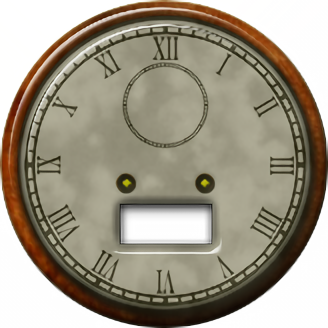
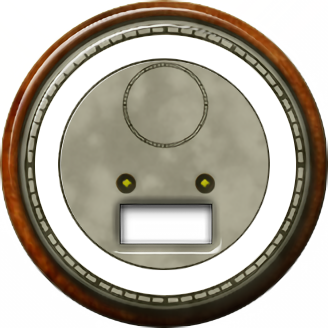
Initial support to change orrary time as well.

Changed region(s): [[0.0915, 0.0915, 0.9146, 0.9146]]

diff --git a/package/contents/ui/timekeeper/Timekeeper.qml b/package/contents/ui/timekeeper/Timekeeper.qml
@@ -171,12 +171,12 @@ Item {
     }
 
     Image {
-        id:month_ring
+        id:monthRing
         x: 16
         y: 18
         width: 446
         height: 446
-        source: "frame/rotatingring.png"
+        source: "frame/monthRing.png"
 
         smooth: true
         mipmap: true
@@ -191,6 +191,87 @@ Item {
                     damping: 0.2
                     modulus: 360
                 }
+            }
+        }
+
+        MouseArea {//date cog rotation
+            id: mouseRotate
+            anchors.fill: parent
+
+            property int outerRingRadius: monthRing.paintedWidth/ 2
+            property int innerRingRadius: (monthRing.paintedWidth/ 2) - 40
+
+            property int startAngle: 0
+            property int ostanov
+            property int aPred
+
+            function inner(x, y) {
+                var dx = x - outerRingRadius;
+                var dy = y - outerRingRadius;
+                var xy = (dx * dx + dy * dy)
+
+                var out = (outerRingRadius * outerRingRadius) >   xy;
+                var inn = (innerRingRadius * innerRingRadius) <=  xy;
+
+                return (out && inn) ? true : false;
+            }
+
+            function ringUpdated(count) {
+                var today = new Date();
+                today.setDate(today.getDate() + count);
+
+                isRealTime = false;
+
+                orrery.setDateTime(today);
+                calendar.setDateTime(today);
+                clock.setDate(today);
+            }
+
+            function triAngle(x,y) {
+                x = x - outerRingRadius;
+                y = y - outerRingRadius;
+                if(x === 0) return (y>0) ? 180 : 0;
+                var a = Math.atan(y/x)*180/Math.PI;
+                a = (x > 0) ? a+90 : a+270;
+
+                return Math.round(a);
+            }
+
+            onPressed: {
+                if( inner(mouse.x, mouse.y) ){
+                    startAngle = triAngle(mouse.x, mouse.y)
+                    ostanov     = frame.ringDegree
+                    aPred      = startAngle
+                }
+            }
+
+            onReleased: {
+
+            }
+
+            onPositionChanged: {
+                var a, b, c
+                if( inner(mouse.x, mouse.y) ){
+                    a = triAngle(mouse.x, mouse.y)
+
+                    b = ostanov + (a - startAngle)
+                    frame.ringDegree = b
+                    frame.countAngle = b
+                    calendar.cogAngle = b
+
+                    c = (aPred - a)
+                    if(c < 90 && -90 < c ) count += c
+                    aPred = a
+
+                    ringUpdated(count)
+                } else {
+                    startAngle = triAngle(mouse.x, mouse.y)
+                    ostanov     = frame.ringDegree
+                    aPred      = startAngle
+                }
+                if(ostanov >  360) ostanov -= 360;
+                if(ostanov < -360) ostanov += 360;
+                // console.log(b, ostanov, a, start_angle)
             }
         }
 
@@ -219,84 +300,6 @@ Item {
                     }
                 }
             }
-        }
-    }
-
-    MouseArea {//date cog rotation
-        id: mouse_rotate
-        x: 16; y: 18
-        width: 446; height: 445
-        property int start_angle: 0
-        property int ostanov
-        property int a_pred
-
-        function inner(x, y) {
-            var dx = x - 223;
-            var dy = y - 223;
-            var xy = (dx * dx + dy * dy)
-
-            var out = (223 * 223) >   xy;
-            var inn = (150 * 150) <=  xy;
-
-            return (out && inn) ? true : false;
-        }
-
-        function ringUpdated(count) {
-            var today = new Date();
-            today.setDate(today.getDate() + count);
-
-            isRealTime = false;
-
-            orrery.setDateTime(today);
-            calendar.setDateTime(today);
-            clock.setDate(today);
-        }
-
-        function tri_angle(x,y) {
-            x = x - 223;
-            y = y - 223;
-            if(x === 0) return (y>0) ? 180 : 0;
-            var a = Math.atan(y/x)*180/Math.PI;
-            a = (x > 0) ? a+90 : a+270;
-
-            return Math.round(a);
-        }
-
-        onPressed: {
-            if( inner(mouse.x, mouse.y) ){
-                start_angle = tri_angle(mouse.x, mouse.y)
-                ostanov     = frame.ringDegree
-                a_pred      = start_angle
-            }
-        }
-
-        onReleased: {
-
-        }
-
-        onPositionChanged: {
-            var a, b, c
-            if( inner(mouse.x, mouse.y) ){
-                a = tri_angle(mouse.x, mouse.y)
-
-                b = ostanov + (a - start_angle)
-                frame.ringDegree = b
-                frame.countAngle = b
-                calendar.cogAngle = b
-
-                c = (a_pred - a)
-                if(c < 90 && -90 < c ) count += c
-                a_pred = a
-
-                ringUpdated(count)
-            } else {
-                start_angle = tri_angle(mouse.x, mouse.y)
-                ostanov     = frame.ringDegree
-                a_pred      = start_angle
-            }
-            if(ostanov >  360) ostanov -= 360;
-            if(ostanov < -360) ostanov += 360;
-            // console.log(b, ostanov, a, start_angle)
         }
     }
 

diff --git a/package/contents/ui/clock/Clock.qml b/package/contents/ui/clock/Clock.qml
@@ -156,6 +156,113 @@ Item {
         }
 
         Image {
+            id: clockTimeRing;
+
+            x: parent.ojectWidth / 2 - width / 2
+            y: parent.ojectHeight / 2 - height / 2
+
+            width: 131 // 108 for inner radius
+            height: 131 // 108 for inner radius
+
+            smooth: true
+            mipmap: true
+            source: "timeRing.png"
+
+            property int count: 0
+            property double ringDegree
+            property int countAngle
+
+            transform: Rotation {
+                origin.x: clockTimeRing.width / 2
+                origin.y: clockTimeRing.height / 2
+                angle: {return (clockTimeRing.ringDegree + 360) % 360;}
+                Behavior on angle {
+                    SpringAnimation {
+                        spring: 2
+                        damping: 0.2
+                        modulus: 360
+                    }
+                }
+            }
+
+            MouseArea {//date cog rotation
+                id: mouseRotate
+                anchors.fill: parent
+
+                property int outerRingRadius: parent.paintedWidth / 2
+                property int innerRingRadius: parent.paintedWidth / 2 - 20
+
+                property int startAngle: 0
+                property int ostanov
+                property int aPred
+
+                function inner(x, y) {
+                    var dx = x - outerRingRadius;
+                    var dy = y - outerRingRadius;
+                    var xy = (dx * dx + dy * dy)
+
+                    var out = (outerRingRadius * outerRingRadius) >   xy;
+                    var inn = (innerRingRadius * innerRingRadius) <=  xy;
+
+                    return (out && inn) ? true : false;
+                }
+
+                function ringUpdated(count) {
+                    var today = new Date();
+                    today.setDate(today.getDate() + count);
+
+                    isRealTime = false;
+                }
+
+                function triAngle(x,y) {
+                    x = x - outerRingRadius;
+                    y = y - outerRingRadius;
+                    if(x === 0) return (y>0) ? 180 : 0;
+                    var a = Math.atan(y/x)*180/Math.PI;
+                    a = (x > 0) ? a+90 : a+270;
+
+                    return Math.round(a);
+                }
+
+                onPressed: {
+                    if( inner(mouse.x, mouse.y) ){
+                        startAngle = triAngle(mouse.x, mouse.y)
+                        ostanov     = clockTimeRing.ringDegree
+                        aPred      = startAngle
+                    }
+                }
+
+                onReleased: {
+
+                }
+
+                onPositionChanged: {
+                    var a, b, c
+                    if( inner(mouse.x, mouse.y) ){
+                        a = triAngle(mouse.x, mouse.y)
+
+                        b = ostanov + (a - startAngle)
+                        clockTimeRing.ringDegree = b
+                        clockTimeRing.countAngle = b
+
+                        c = (aPred - a)
+                        if(c < 90 && -90 < c ) clockTimeRing.count += c
+                        aPred = a
+
+                        ringUpdated(clockTimeRing.count)
+                    } else {
+                        startAngle = triAngle(mouse.x, mouse.y)
+                        ostanov     = clockTimeRing.ringDegree
+                        aPred      = startAngle
+                    }
+                    if(ostanov >  360) ostanov -= 360;
+                    if(ostanov < -360) ostanov += 360;
+                    // console.log(b, ostanov, a, start_angle)
+                }
+            }
+        }
+
+        Image {
             id: secondsHandImage
             x: 82 - (width / 2)
             y: 53 - height + 2
